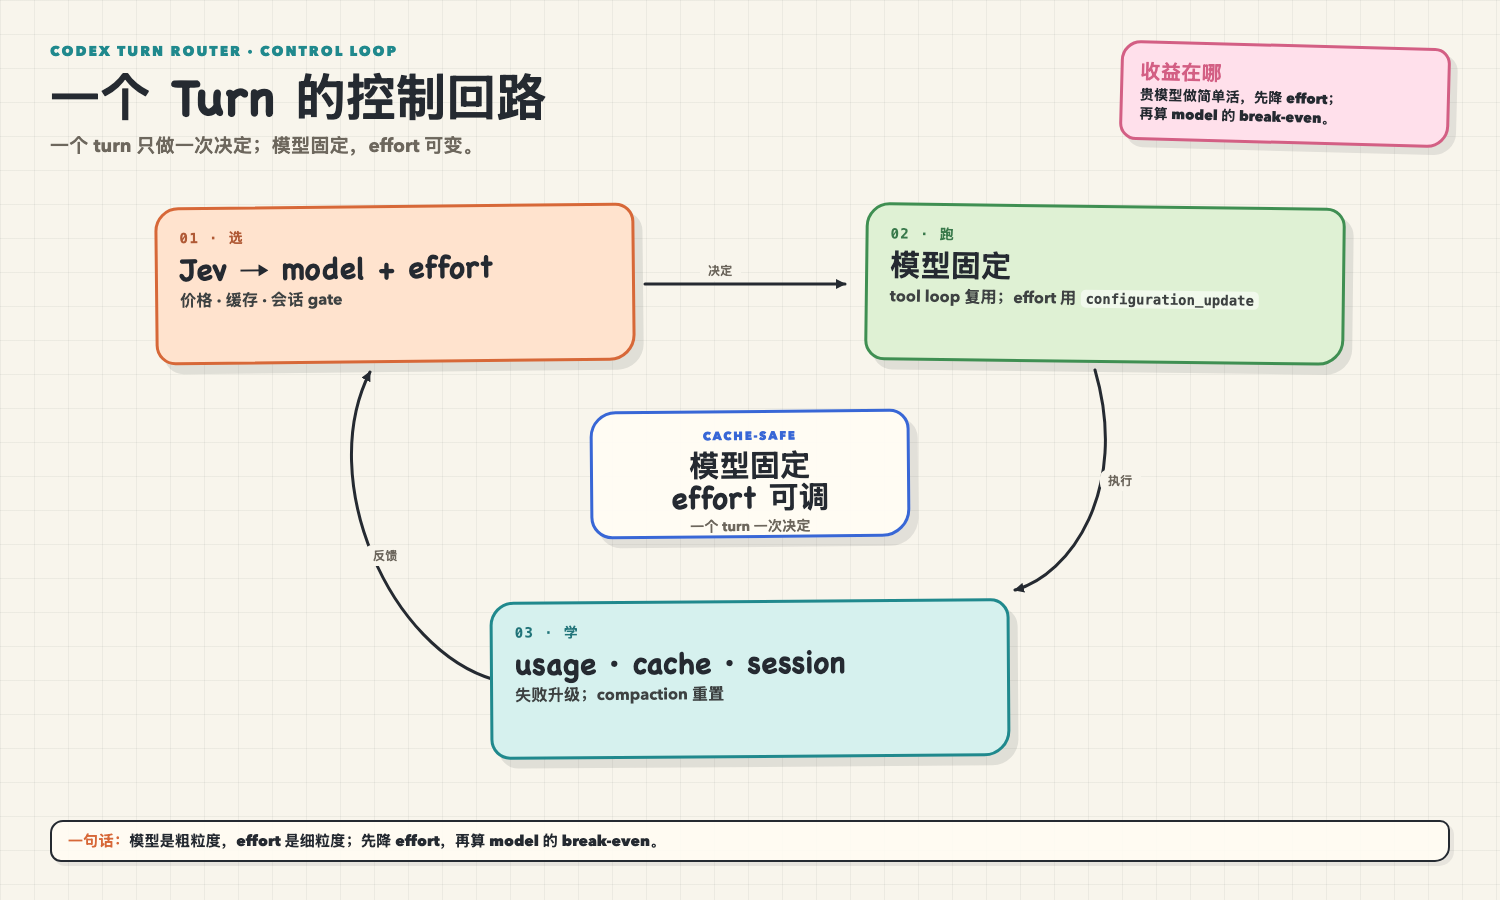
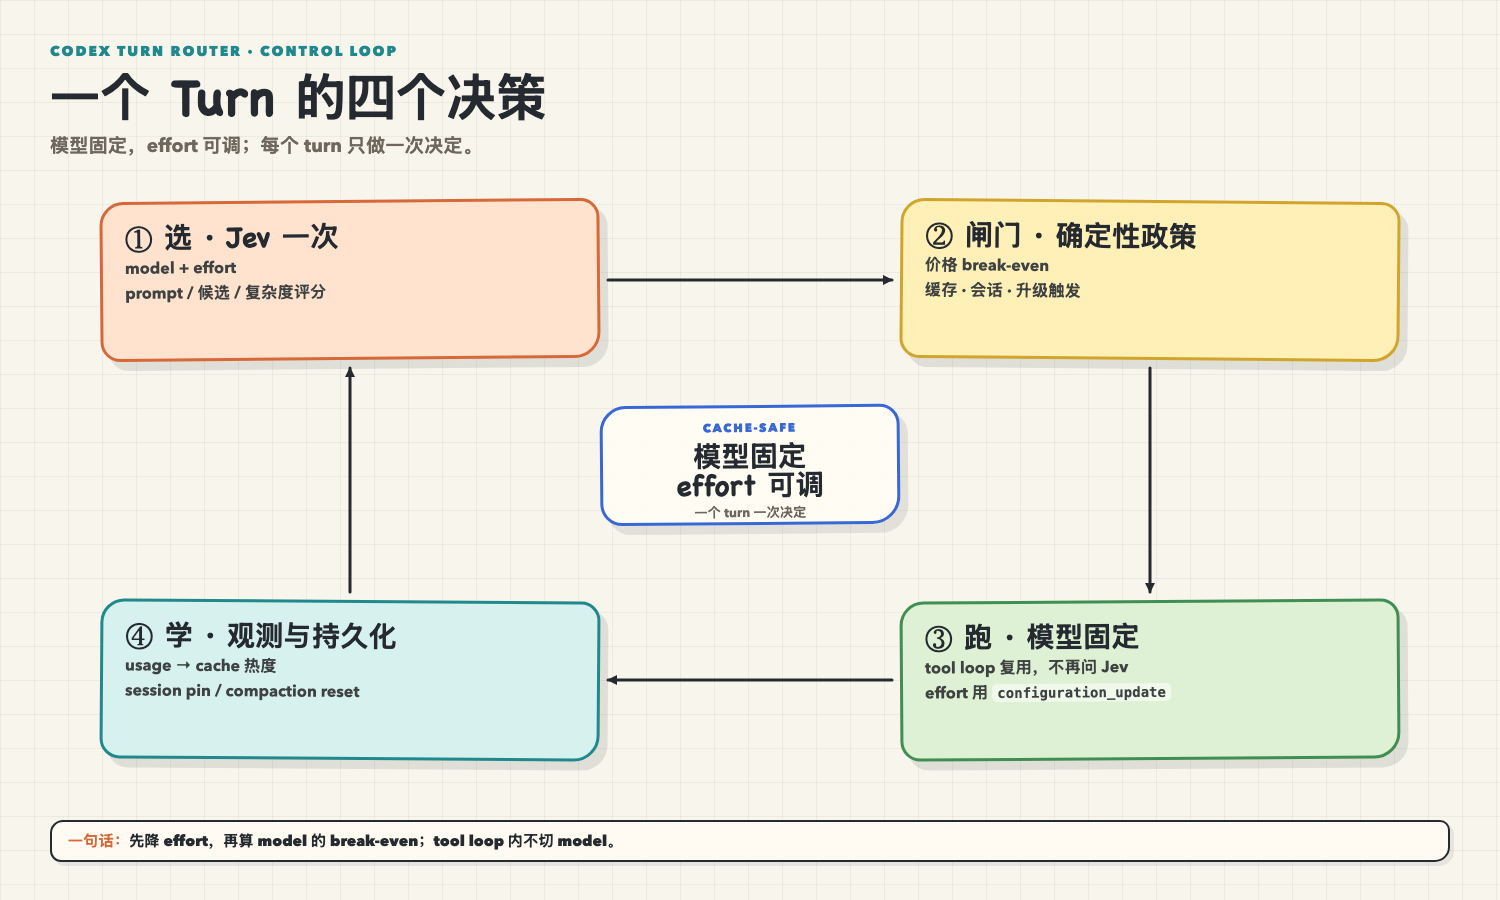
docs: expand control loop with decision gates

diff --git a/docs/assets/codex-turn-router-control-plane.html b/docs/assets/codex-turn-router-control-plane.html
@@ -9,19 +9,16 @@
       --paper: #f8f5ec;
       --ink: #252a31;
       --muted: #6d675d;
-      --grid: rgba(37, 42, 49, .055);
+      --grid: rgba(37,42,49,.055);
       --orange: #d76838;
       --orange-soft: #ffe3ce;
+      --yellow: #d1a52b;
+      --yellow-soft: #fff0b8;
       --green: #3f8f52;
       --green-soft: #dff1d4;
       --teal: #20898d;
       --teal-soft: #d6f1ee;
       --blue: #3867d6;
-      --blue-soft: #dfe9ff;
-      --pink: #d35f84;
-      --pink-soft: #ffe0eb;
-      --yellow: #d1a52b;
-      --yellow-soft: #fff0b8;
     }
     * { box-sizing: border-box; }
     body {
@@ -34,118 +31,50 @@
       background-size: 34px 34px;
       font-family: "Chalkboard SE", "Marker Felt", "PingFang SC", sans-serif;
     }
-    .page {
-      position: relative;
-      width: 1500px;
-      height: 900px;
-      overflow: hidden;
-      padding: 42px 50px;
-    }
-    .kicker {
-      color: var(--teal);
-      font: 900 14px "Avenir Next", "PingFang SC", sans-serif;
-      letter-spacing: .14em;
-    }
-    h1 {
-      margin: 7px 0 0;
-      font-size: 50px;
-      line-height: 1.05;
-    }
-    .subtitle {
-      margin: 12px 0 0;
-      width: 900px;
-      color: var(--muted);
-      font: 650 19px/1.4 "Avenir Next", "PingFang SC", sans-serif;
-    }
-    .stamp {
-      position: absolute;
-      top: 44px;
-      right: 50px;
-      width: 330px;
-      padding: 13px 17px;
-      border: 3px solid var(--pink);
-      border-radius: 20px 16px 22px 17px;
-      background: var(--pink-soft);
-      box-shadow: 7px 7px 0 rgba(37,42,49,.1);
-      transform: rotate(1.5deg);
-      font: 800 14px/1.35 "Avenir Next", "PingFang SC", sans-serif;
-    }
-    .stamp b {
-      display: block;
-      margin-bottom: 3px;
-      color: var(--pink);
-      font-family: "Chalkboard SE", "Marker Felt", "PingFang SC", sans-serif;
-      font-size: 20px;
-    }
+    .page { position: relative; width: 1500px; height: 900px; overflow: hidden; padding: 42px 50px; }
+    .kicker { color: var(--teal); font: 900 14px "Avenir Next", "PingFang SC", sans-serif; letter-spacing: .14em; }
+    h1 { margin: 7px 0 0; font-size: 50px; line-height: 1.05; }
+    .subtitle { margin: 12px 0 0; color: var(--muted); font: 650 19px/1.4 "Avenir Next", "PingFang SC", sans-serif; }
     .card {
       position: absolute;
       z-index: 3;
-      padding: 18px 22px;
+      width: 500px;
+      height: 160px;
+      padding: 17px 22px;
       border: 3.5px solid var(--stroke);
       border-radius: 24px 19px 26px 20px;
       background: var(--fill);
       box-shadow: 8px 9px 0 rgba(37,42,49,.11);
       transform: rotate(var(--tilt));
     }
-    .card .num {
-      display: block;
-      margin-bottom: 4px;
-      color: color-mix(in srgb, var(--stroke) 78%, var(--ink));
-      font: 900 14px "SFMono-Regular", Menlo, monospace;
-      letter-spacing: .1em;
-    }
-    .card h2 {
-      margin: 0 0 8px;
-      font-size: 30px;
-      line-height: 1;
-    }
-    .card p {
-      margin: 0;
-      color: #3e4242;
-      font: 650 16px/1.4 "Avenir Next", "PingFang SC", sans-serif;
-    }
+    .card h2 { margin: 0 0 8px; font-size: 28px; line-height: 1.05; }
+    .card p { margin: 0; color: #3e4242; font: 700 16px/1.35 "Avenir Next", "PingFang SC", sans-serif; }
     .card p + p { margin-top: 3px; }
-    .card code {
-      font: 700 14px "SFMono-Regular", Menlo, monospace;
-      background: rgba(255,255,255,.55);
-      padding: 1px 5px;
-      border-radius: 5px;
-    }
-    .pick { left: 155px; top: 205px; width: 480px; height: 158px; --stroke: var(--orange); --fill: var(--orange-soft); --tilt: -.6deg; }
-    .run { right: 155px; top: 205px; width: 480px; height: 158px; --stroke: var(--green); --fill: var(--green-soft); --tilt: .7deg; }
-    .learn { left: 490px; top: 600px; width: 520px; height: 158px; --stroke: var(--teal); --fill: var(--teal-soft); --tilt: -.4deg; }
+    .card code { font: 700 14px "SFMono-Regular", Menlo, monospace; background: rgba(255,255,255,.55); padding: 1px 5px; border-radius: 5px; }
+    .pick { left: 100px; top: 200px; --stroke: var(--orange); --fill: var(--orange-soft); --tilt: -.5deg; }
+    .gate { left: 900px; top: 200px; --stroke: var(--yellow); --fill: var(--yellow-soft); --tilt: .5deg; }
+    .run { left: 900px; top: 600px; --stroke: var(--green); --fill: var(--green-soft); --tilt: -.4deg; }
+    .learn { left: 100px; top: 600px; --stroke: var(--teal); --fill: var(--teal-soft); --tilt: .4deg; }
     .center {
       position: absolute;
-      left: 590px;
-      top: 410px;
-      width: 320px;
-      height: 128px;
+      left: 600px;
+      top: 405px;
+      width: 300px;
+      height: 120px;
       z-index: 2;
       display: grid;
       place-items: center;
       text-align: center;
-      padding: 15px 20px;
+      padding: 12px 18px;
       border: 3.5px solid var(--blue);
       border-radius: 26px 20px 28px 22px;
       background: rgba(255,252,243,.94);
       box-shadow: 8px 9px 0 rgba(37,42,49,.1);
       transform: rotate(-.5deg);
     }
-    .center .eyebrow {
-      color: var(--blue);
-      font: 900 12px "Avenir Next", "PingFang SC", sans-serif;
-      letter-spacing: .14em;
-    }
-    .center h2 {
-      margin: 4px 0 0;
-      font-size: 30px;
-      line-height: 1.05;
-    }
-    .center p {
-      margin: 5px 0 0;
-      color: var(--muted);
-      font: 700 14px "Avenir Next", "PingFang SC", sans-serif;
-    }
+    .center .eyebrow { color: var(--blue); font: 900 12px "Avenir Next", "PingFang SC", sans-serif; letter-spacing: .14em; }
+    .center h2 { margin: 4px 0 0; font-size: 28px; line-height: 1.05; }
+    .center p { margin: 4px 0 0; color: var(--muted); font: 700 13px "Avenir Next", "PingFang SC", sans-serif; }
     .footer {
       position: absolute;
       left: 50px;
@@ -159,16 +88,6 @@
       font: 800 15px/1.35 "Avenir Next", "PingFang SC", sans-serif;
     }
     .footer b { color: var(--orange); }
-    .edge-label {
-      position: absolute;
-      z-index: 5;
-      padding: 2px 8px;
-      border-radius: 7px;
-      background: var(--paper);
-      color: var(--muted);
-      font: 800 12px "Avenir Next", "PingFang SC", sans-serif;
-      white-space: nowrap;
-    }
     svg.paths { position: absolute; inset: 0; z-index: 1; pointer-events: none; }
     .main { fill: none; stroke: var(--ink); stroke-width: 3; stroke-linecap: round; stroke-linejoin: round; marker-end: url(#arrow); }
   </style>
@@ -176,14 +95,8 @@
 <body>
   <main class="page">
     <div class="kicker">CODEX TURN ROUTER · CONTROL LOOP</div>
-    <h1>一个 Turn 的控制回路</h1>
-    <p class="subtitle">一个 turn 只做一次决定；模型固定，effort 可变。</p>
-
-    <aside class="stamp">
-      <b>收益在哪</b>
-      贵模型做简单活，先降 effort；<br>
-      再算 model 的 break-even。
-    </aside>
+    <h1>一个 Turn 的四个决策</h1>
+    <p class="subtitle">模型固定，effort 可调；每个 turn 只做一次决定。</p>
 
     <svg class="paths" width="1500" height="900" viewBox="0 0 1500 900" aria-hidden="true">
       <defs>
@@ -191,27 +104,34 @@
           <path d="M0 0 L10 5 L0 10 Z" fill="#252a31"/>
         </marker>
       </defs>
-      <path class="main" d="M 645 284 L 845 284"/>
-      <path class="main" d="M 1095 370 C 1130 490 1070 575 1015 590"/>
-      <path class="main" d="M 495 680 C 390 650 315 480 370 372"/>
+      <path class="main" d="M 608 280 L 892 280"/>
+      <path class="main" d="M 1150 368 L 1150 592"/>
+      <path class="main" d="M 892 680 L 608 680"/>
+      <path class="main" d="M 350 592 L 350 368"/>
     </svg>
 
     <section class="card pick">
-      <span class="num">01 · 选</span>
-      <h2>Jev → model + effort</h2>
-      <p>价格 · 缓存 · 会话 gate</p>
+      <h2>① 选 · Jev 一次</h2>
+      <p>model + effort</p>
+      <p>prompt / 候选 / 复杂度评分</p>
+    </section>
+
+    <section class="card gate">
+      <h2>② 闸门 · 确定性政策</h2>
+      <p>价格 break-even</p>
+      <p>缓存 · 会话 · 升级触发</p>
     </section>
 
     <section class="card run">
-      <span class="num">02 · 跑</span>
-      <h2>模型固定</h2>
-      <p>tool loop 复用；effort 用 <code>configuration_update</code></p>
+      <h2>③ 跑 · 模型固定</h2>
+      <p>tool loop 复用，不再问 Jev</p>
+      <p>effort 用 <code>configuration_update</code></p>
     </section>
 
     <section class="card learn">
-      <span class="num">03 · 学</span>
-      <h2>usage · cache · session</h2>
-      <p>失败升级；compaction 重置</p>
+      <h2>④ 学 · 观测与持久化</h2>
+      <p>usage → cache 热度</p>
+      <p>session pin / compaction reset</p>
     </section>
 
     <div class="center">
@@ -222,11 +142,7 @@
       </div>
     </div>
 
-    <div class="edge-label" style="left: 700px; top: 260px;">决定</div>
-    <div class="edge-label" style="left: 1100px; top: 470px;">执行</div>
-    <div class="edge-label" style="left: 365px; top: 545px;">反馈</div>
-
-    <div class="footer"><b>一句话：</b>模型是粗粒度，effort 是细粒度；先降 effort，再算 model 的 break-even。</div>
+    <div class="footer"><b>一句话：</b>先降 effort，再算 model 的 break-even；tool loop 内不切 model。</div>
   </main>
 </body>
 </html>

diff --git a/README.md b/README.md
@@ -8,7 +8,7 @@
 
 ![Codex Turn Router 控制回路](docs/assets/codex-turn-router-control-plane.png)
 
-控制回路：选 → 跑 → 学。
+控制回路：选 → 闸 → 跑 → 学。
 
 - 使用、配置与设计取舍：[docs/codex-turn-router.md](docs/codex-turn-router.md)
 - 测试样本与方法：[docs/evaluation-plan.md](docs/evaluation-plan.md)
